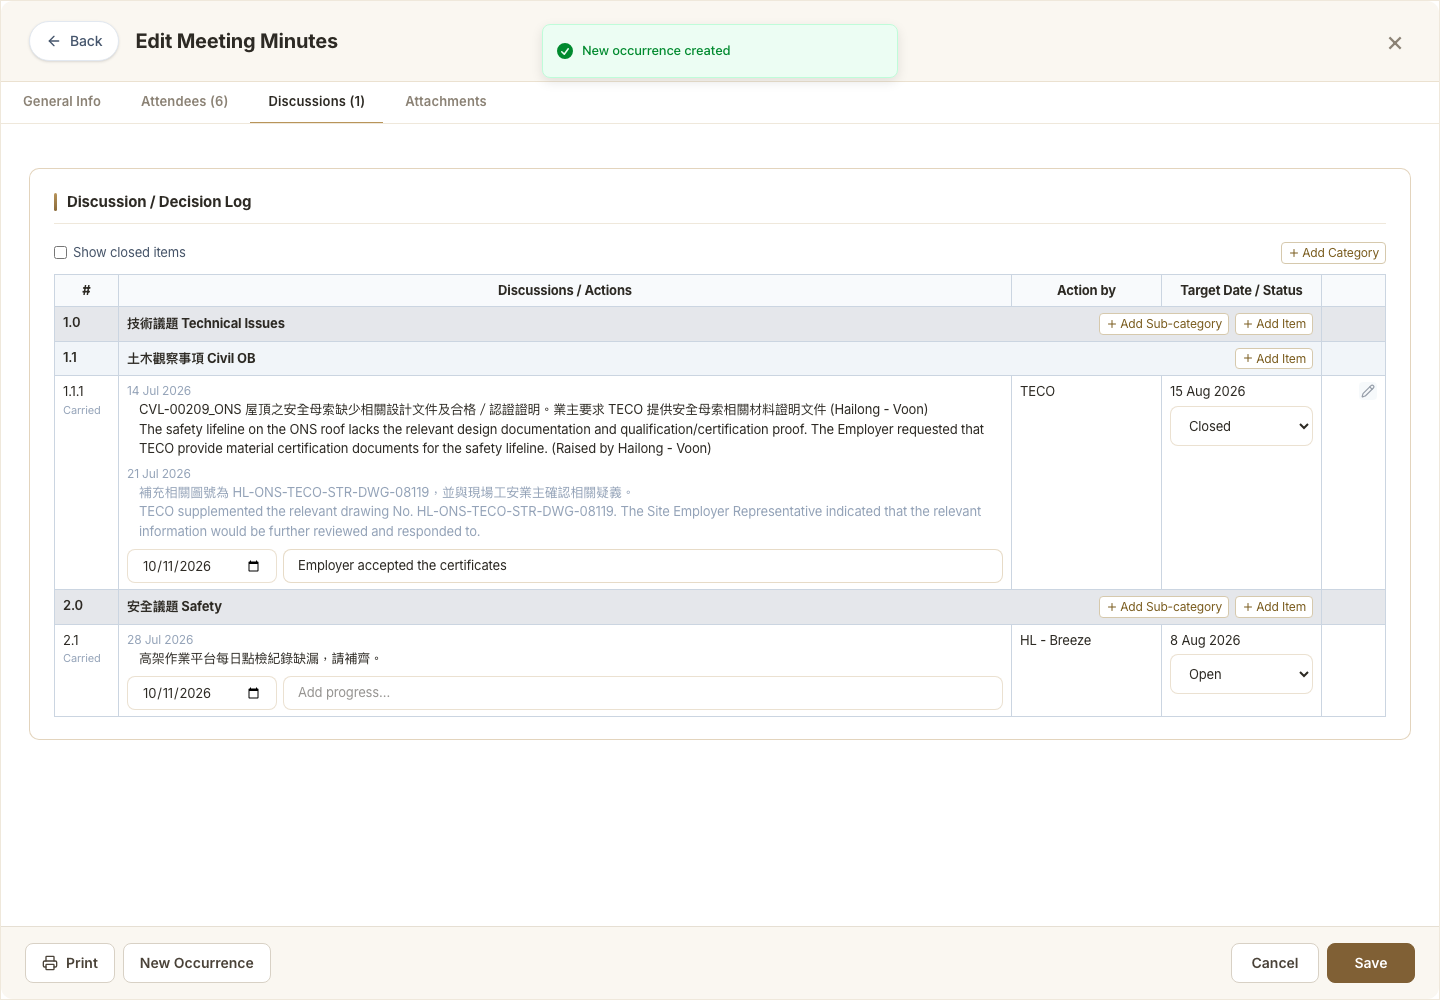
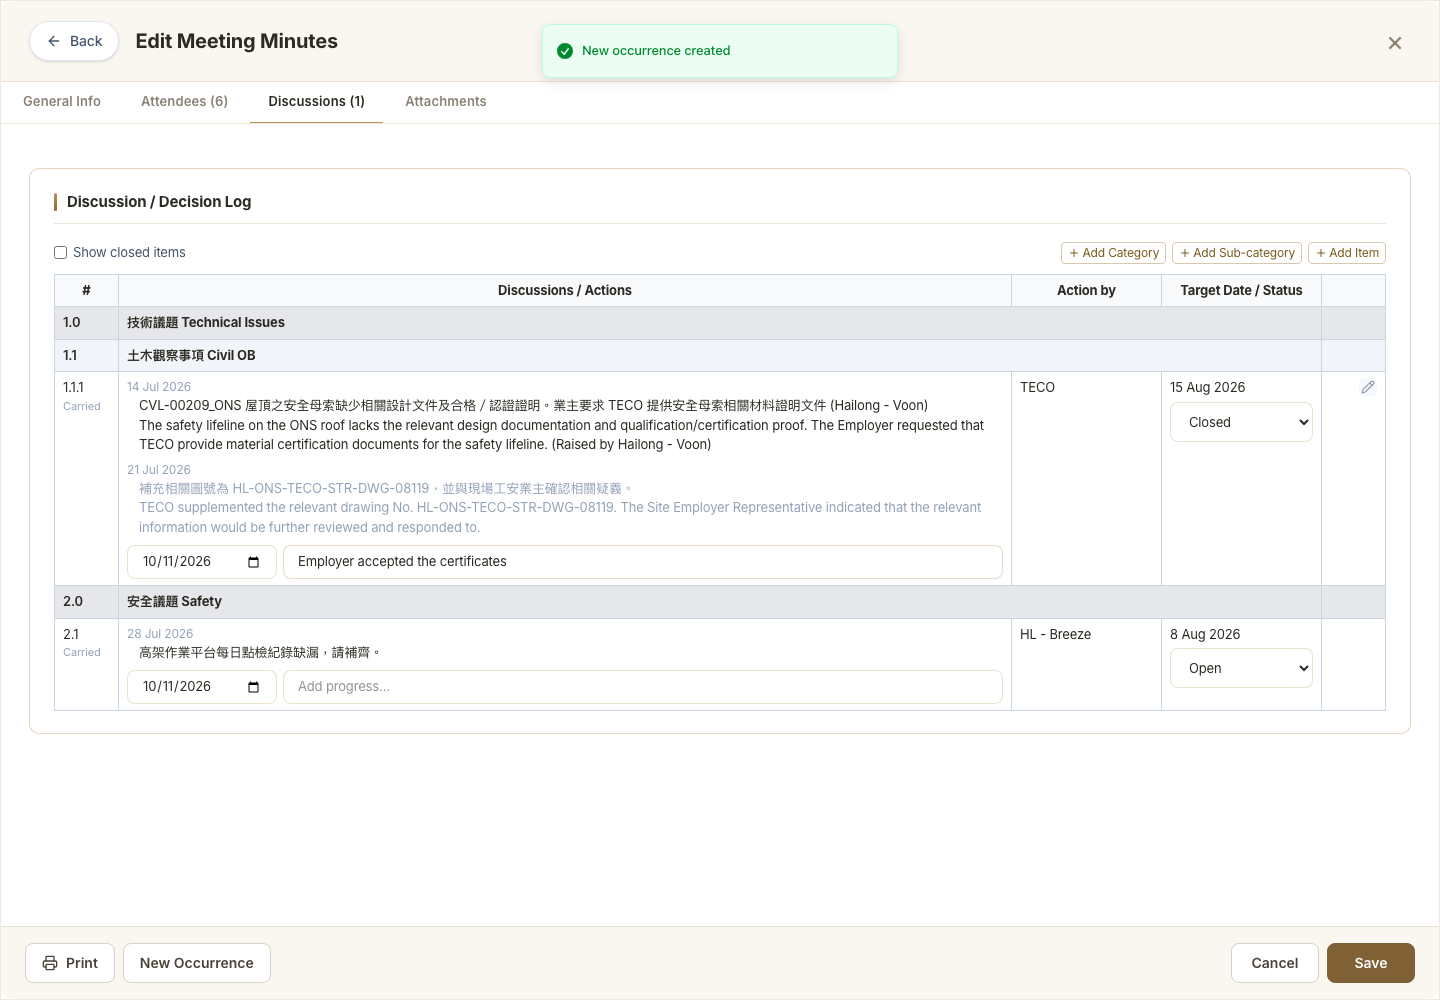
docs(meeting-minutes): MEETING-TABS-2026-001 R8 status, review and evidence

diff --git a/docs/workflow/MEETING-TABS-2026-001-REVIEW.md b/docs/workflow/MEETING-TABS-2026-001-REVIEW.md
@@ -39,3 +39,7 @@ REVISE：
 資訊：版次比較前端 parseFloat、後端 int(float())，手填 1.10 vs 1.9 兩邊可能不同（邊緣情況）；作廢會議兩檢視都排除。
 確認正確：存檔流程移除行動項目後只剩附件延後狀態、無 followup 殘留或死碼、未結／已結不重複、逾期用本地日期、移除的 10 個翻譯鍵全 repo 無使用、DECISIONS 與程式一致。
 PASS（修正後）：listSearch 依檢視、存檔後 refetch 參數正確；registerSourcePerSeries 只在使用者刻意清空最新一次時誤判（已註明），全部結案的新版次退回前一版仍是 0 筆未結；latestPerSeries 只剩測試使用、無害；縮排在唯讀與列印一致，僅編輯中的輸入框不縮排。tsc 乾淨、npm test 159 passed。
+
+## R8：PASS（新增按鈕集中到工具列、所屬下拉）
+headingOf、子類取大類、contextNo 刪除後跟隨、所屬選到被濾掉的標題時位置與編號、tr 上 onMouseDown／onFocus 不干擾 ✏／🗑／狀態／更新欄，均確認；tsc 乾淨、npm test 159 passed、新鍵中英齊全。
+建議（已處理）：✓ 後未更新最後點過的位置；disabled 按鈕鍵盤讀不到提示 → aria-disabled＋按下時提示；預設所屬不在選單時與顯示不符 → 改用第一個選項。資訊：列印第一次逾時、重跑 8/8，判斷偶發。
